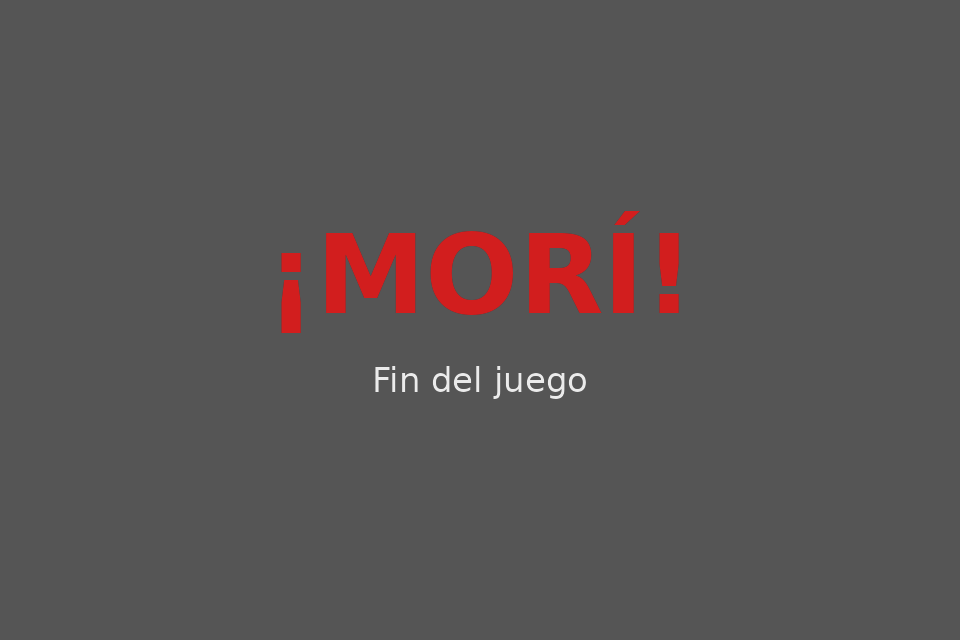
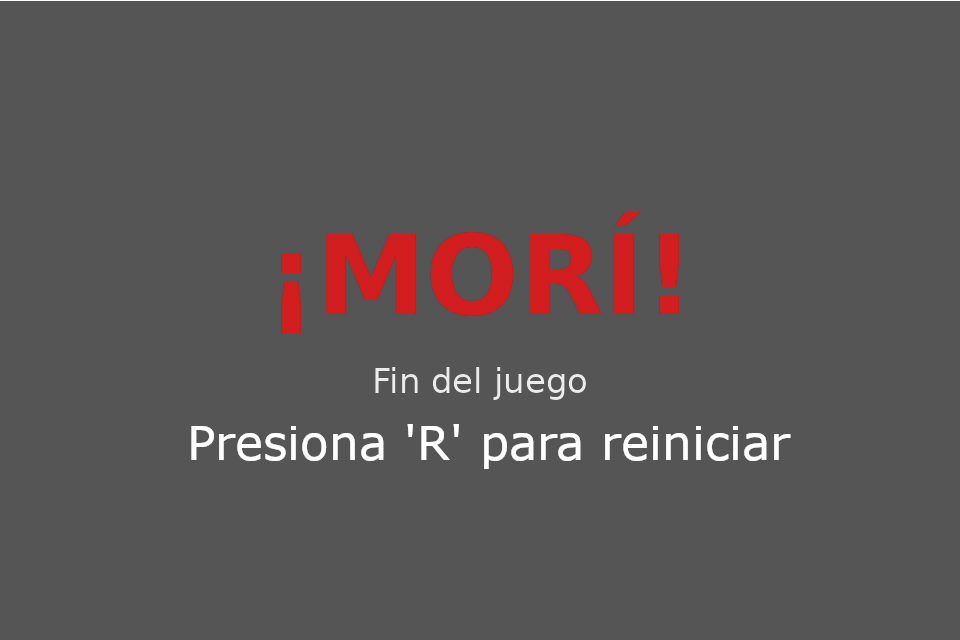
Sistema de vigilancia mas optimizado y mejores en el sistema de muerte

Changed region(s): [[0.1875, 0.6562, 0.8125, 0.7188], [0.5312, 0.5938, 0.5938, 0.625], [0.4688, 0.5938, 0.5, 0.625]]

diff --git a/assets/personajes/Soldado/redimenzionar.py b/assets/personajes/Soldado/redimenzionar.py
@@ -1,7 +1,7 @@
 from PIL import Image
 import os
 
-for carpeta in ["assets/objetos"]:
+for carpeta in ["assets/personajes/Soldado/Apuntar"]:
     for archivo in os.listdir(carpeta):
         if archivo.endswith(".png"):
             img = Image.open(f"{carpeta}/{archivo}")
